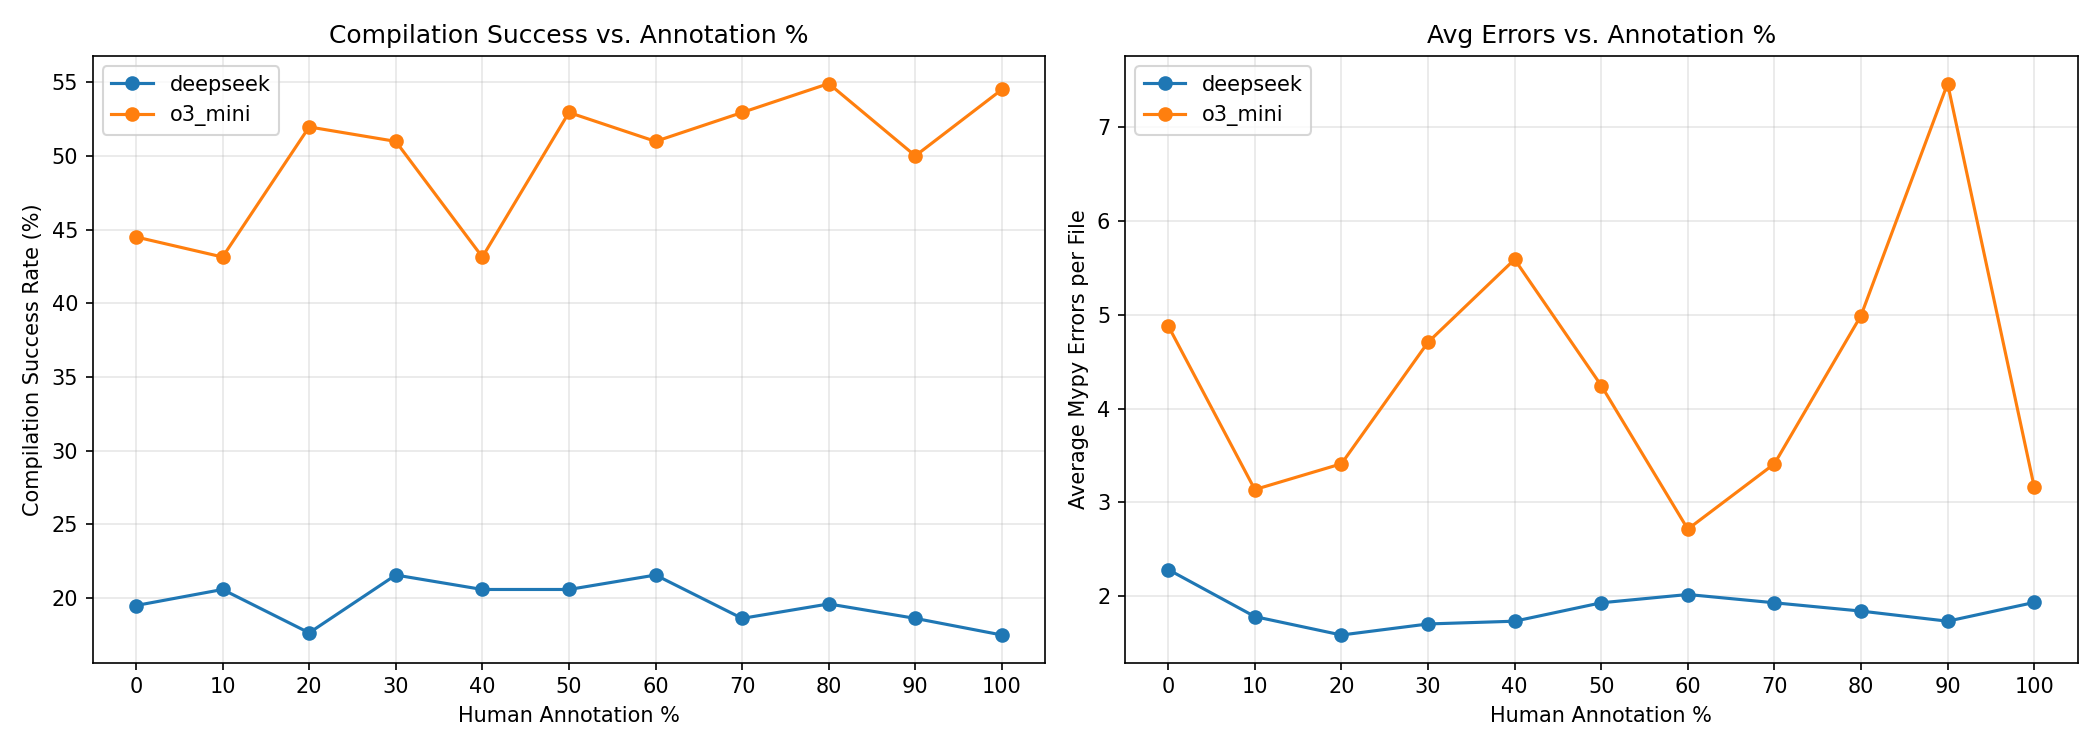
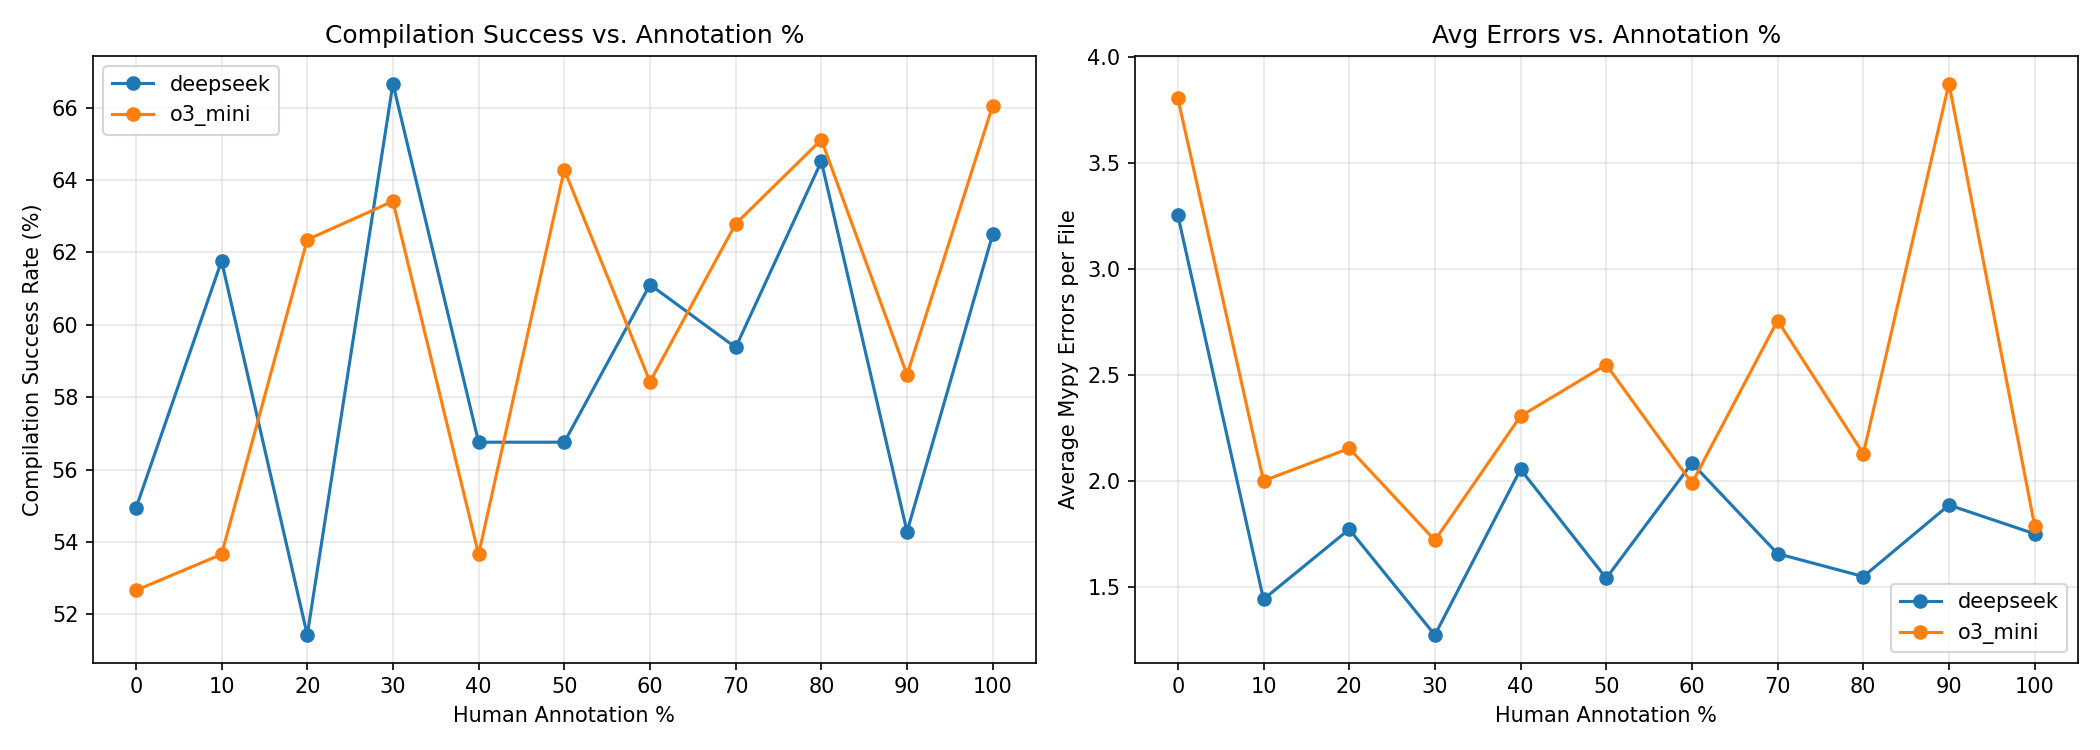
Per file analysis

diff --git a/ManyTypes4py_benchmarks/Human_annotations_detailed_analysis/per_file_analysis.py b/ManyTypes4py_benchmarks/Human_annotations_detailed_analysis/per_file_analysis.py
@@ -1,0 +1,223 @@
+import json
+import os
+import matplotlib.pyplot as plt
+import numpy as np
+
+PERCENTAGES = [0, 10, 20, 30, 40, 50, 60, 70, 80, 90, 100]
+PERCENT_NAMES = [
+    "zero", "ten", "twenty", "thirty", "forty", "fifty",
+    "sixty", "seventy", "eighty", "ninety", "fully",
+]
+
+LLM_CONFIGS = {
+    "deepseek": {
+        "base_dir": "deepseek_outputs",
+        "prefix": "mypy_results_deepseek_",
+        "suffix": "_percent_typed_output.json",
+    },
+    "o3_mini": {
+        "base_dir": "o3_mini_outputs",
+        "prefix": "mypy_results_o3_mini_",
+        "suffix": "_percent_typed_output.json",
+    },
+}
+
+NON_TYPE_ERROR_CODES = [
+    "name-defined", "import", "syntax", "no-redef", "unused-ignore",
+    "override-without-super", "redundant-cast", "literal-required",
+    "typeddict-unknown-key", "typeddict-item", "truthy-function",
+    "str-bytes-safe", "unused-coroutine", "explicit-override",
+    "truthy-iterable", "redundant-self", "redundant-await", "unreachable",
+]
+
+
+def has_non_type_error(errors):
+    for error in errors:
+        if any(t in error.lower() for t in ["syntax", "empty_body", "name_defined"]):
+            return True
+        if "[" in error and "]" in error:
+            code = error[error.rindex("[") + 1 : error.rindex("]")]
+            if code in NON_TYPE_ERROR_CODES:
+                return True
+    return False
+
+
+def load_all_data(base_dir, prefix, suffix):
+    all_data = {}
+    for pct, name in zip(PERCENTAGES, PERCENT_NAMES):
+        path = os.path.join(base_dir, f"{prefix}{name}{suffix}")
+        with open(path, "r") as f:
+            all_data[pct] = json.load(f)
+    return all_data
+
+
+def build_per_file_table(all_data):
+    """Build {filename: {pct: error_count}} after filtering non-type errors."""
+    all_files = set()
+    for pct in PERCENTAGES:
+        all_files.update(all_data[pct].keys())
+
+    table = {}
+    for fname in sorted(all_files):
+        skip = False
+        for pct in PERCENTAGES:
+            entry = all_data[pct].get(fname)
+            if entry and has_non_type_error(entry.get("errors", [])):
+                skip = True
+                break
+        if skip:
+            continue
+        table[fname] = {pct: all_data[pct][fname]["error_count"]
+                        for pct in PERCENTAGES if fname in all_data[pct]}
+    return table
+
+
+def min_percent_to_compile(all_data, table):
+    """For each file, find the lowest % where error_count == 0. None if never."""
+    result = {}
+    for fname, errors_by_pct in table.items():
+        result[fname] = None
+        for pct in PERCENTAGES:
+            if errors_by_pct.get(pct, -1) == 0:
+                result[fname] = pct
+                break
+    return result
+
+
+def categorize_files(table, min_pct):
+    categories = {
+        "always_pass": [],    # 0 errors at all %
+        "easy": [],           # first passes at <= 30%
+        "medium": [],         # first passes at 40-70%
+        "hard": [],           # first passes at 80-100%
+        "stubborn": [],       # never passes
+        "non_monotonic": [],  # errors increase at some step
+    }
+    for fname, errors_by_pct in table.items():
+        pcts_present = sorted(errors_by_pct.keys())
+        errs = [errors_by_pct[p] for p in pcts_present]
+
+        if all(e == 0 for e in errs):
+            categories["always_pass"].append(fname)
+        elif min_pct[fname] is None:
+            categories["stubborn"].append(fname)
+        elif min_pct[fname] <= 30:
+            categories["easy"].append(fname)
+        elif min_pct[fname] <= 70:
+            categories["medium"].append(fname)
+        else:
+            categories["hard"].append(fname)
+
+        for i in range(1, len(errs)):
+            if errs[i] > errs[i - 1]:
+                categories["non_monotonic"].append(fname)
+                break
+
+    return categories
+
+
+# --- Plot 1: Histogram of minimum % to compile ---
+def plot_histogram(all_min_pcts):
+    fig, axes = plt.subplots(1, len(all_min_pcts), figsize=(7 * len(all_min_pcts), 5),
+                             squeeze=False)
+    for idx, (llm_name, min_pct) in enumerate(all_min_pcts.items()):
+        values = [v for v in min_pct.values() if v is not None]
+        never_count = sum(1 for v in min_pct.values() if v is None)
+        ax = axes[0][idx]
+        ax.hist(values, bins=PERCENTAGES + [110], edgecolor="black",
+                align="left", rwidth=0.8)
+        ax.set_xticks(PERCENTAGES)
+        ax.set_xlabel("Minimum Annotation % to Pass Mypy")
+        ax.set_ylabel("Number of Files")
+        ax.set_title(f"{llm_name}\n(never pass: {never_count} files)")
+        ax.grid(True, alpha=0.3, axis="y")
+    plt.tight_layout()
+    path = os.path.join(OUTPUT_DIR, "plot_min_percent_histogram.png")
+    plt.savefig(path, dpi=150)
+    print(f"Saved: {path}")
+    plt.show()
+
+
+# --- Plot 3: Box plot of error counts per % ---
+def plot_boxplot(all_tables):
+    fig, axes = plt.subplots(1, len(all_tables), figsize=(7 * len(all_tables), 5),
+                             squeeze=False)
+    for idx, (llm_name, table) in enumerate(all_tables.items()):
+        data_by_pct = []
+        for pct in PERCENTAGES:
+            data_by_pct.append([table[f].get(pct, 0) for f in table])
+        ax = axes[0][idx]
+        bp = ax.boxplot(data_by_pct, labels=[str(p) for p in PERCENTAGES],
+                        patch_artist=True, showfliers=False)
+        for patch in bp["boxes"]:
+            patch.set_facecolor("skyblue")
+        ax.set_xlabel("Annotation %")
+        ax.set_ylabel("Mypy Error Count")
+        ax.set_title(f"{llm_name} — Error Distribution per %")
+        ax.grid(True, alpha=0.3, axis="y")
+    plt.tight_layout()
+    path = os.path.join(OUTPUT_DIR, "plot_error_boxplot.png")
+    plt.savefig(path, dpi=150)
+    print(f"Saved: {path}")
+    plt.show()
+
+
+# --- Plot 4: Heatmap ---
+def plot_heatmap(all_tables):
+    for llm_name, table in all_tables.items():
+        filenames = sorted(table.keys())
+        matrix = np.array([[table[f].get(pct, 0) for pct in PERCENTAGES]
+                           for f in filenames])
+        fig, ax = plt.subplots(figsize=(10, max(6, len(filenames) * 0.08)))
+        im = ax.imshow(matrix, aspect="auto", cmap="YlOrRd", interpolation="nearest")
+        ax.set_xticks(range(len(PERCENTAGES)))
+        ax.set_xticklabels([f"{p}%" for p in PERCENTAGES])
+        ax.set_xlabel("Annotation %")
+        ax.set_ylabel(f"Files ({len(filenames)} total)")
+        ax.set_yticks([])
+        ax.set_title(f"{llm_name} — Per-File Error Heatmap")
+        plt.colorbar(im, ax=ax, label="Error Count")
+        plt.tight_layout()
+        path = os.path.join(OUTPUT_DIR, f"plot_heatmap_{llm_name}.png")
+        plt.savefig(path, dpi=150)
+        print(f"Saved: {path}")
+        plt.show()
+
+
+# --- Analysis 6: Categorization table ---
+def print_categories(llm_name, categories, total):
+    print(f"\n{'=' * 55}")
+    print(f"  {llm_name.upper()} — File Categorization ({total} files)")
+    print(f"{'=' * 55}")
+    print(f"  {'Category':<20} {'Count':>6} {'%':>8}")
+    print(f"  {'-' * 20} {'-' * 6} {'-' * 8}")
+    for cat, files in categories.items():
+        pct = len(files) / total * 100 if total else 0
+        print(f"  {cat:<20} {len(files):>6} {pct:>7.1f}%")
+
+
+OUTPUT_DIR = "per_file_analysis_results"
+
+
+if __name__ == "__main__":
+    os.makedirs(OUTPUT_DIR, exist_ok=True)
+
+    all_tables = {}
+    all_min_pcts = {}
+    all_categories = {}
+
+    for llm_name, cfg in LLM_CONFIGS.items():
+        all_data = load_all_data(cfg["base_dir"], cfg["prefix"], cfg["suffix"])
+        table = build_per_file_table(all_data)
+        min_pct = min_percent_to_compile(all_data, table)
+        categories = categorize_files(table, min_pct)
+
+        all_tables[llm_name] = table
+        all_min_pcts[llm_name] = min_pct
+        all_categories[llm_name] = categories
+
+        print_categories(llm_name, categories, len(table))
+
+    plot_histogram(all_min_pcts)
+    plot_boxplot(all_tables)
+    plot_heatmap(all_tables)

diff --git a/ManyTypes4py_benchmarks/Human_annotations_detailed_analysis/analyze_mypy_results.py b/ManyTypes4py_benchmarks/Human_annotations_detailed_analysis/analyze_mypy_results.py
@@ -24,6 +24,26 @@ LLM_CONFIGS = {
 }
 
 
+NON_TYPE_ERROR_CODES = [
+    "name-defined", "import", "syntax", "no-redef", "unused-ignore",
+    "override-without-super", "redundant-cast", "literal-required",
+    "typeddict-unknown-key", "typeddict-item", "truthy-function",
+    "str-bytes-safe", "unused-coroutine", "explicit-override",
+    "truthy-iterable", "redundant-self", "redundant-await", "unreachable",
+]
+
+
+def has_non_type_error(errors):
+    for error in errors:
+        if any(t in error.lower() for t in ["syntax", "empty_body", "name_defined"]):
+            return True
+        if "[" in error and "]" in error:
+            code = error[error.rindex("[") + 1 : error.rindex("]")]
+            if code in NON_TYPE_ERROR_CODES:
+                return True
+    return False
+
+
 def load_results(base_dir, prefix, suffix):
     """Load mypy results for all percentages. Returns dict: {percent: data}."""
     all_data = {}
@@ -38,7 +58,8 @@ def compute_metrics(all_data):
     """Compute compilation rate and avg errors per percentage."""
     metrics = {"percent": [], "compilation_rate": [], "avg_errors": [], "total_files": []}
     for pct in PERCENTAGES:
-        data = all_data[pct]
+        data = {k: v for k, v in all_data[pct].items()
+                if not has_non_type_error(v.get("errors", []))}
         total = len(data)
         compiled = sum(1 for v in data.values() if v["isCompiled"])
         errors = [v["error_count"] for v in data.values()]
